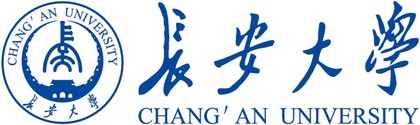
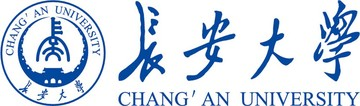
通过主页编辑器更新 2026/11/19 22:00:52

diff --git a/styles.css b/styles.css
@@ -20,7 +20,8 @@ p{margin:0 0 .5em}h1,h2,h3,h4{margin:1em 0 .5em;line-height:1.2;font-weight:700}
 .page-content{min-width:0}.introduction p{margin-bottom:.5em}.section-title{font-size:1.4em;margin:1em 0 .5em;padding-bottom:.5em;border-bottom:1px solid var(--line)}
 section[id]{scroll-margin-top:0}.education-row{display:grid;grid-template-columns:150px minmax(0,1fr);align-items:center;gap:16px;margin:0 0 12px;min-height:62px}
 .university-logo{display:block;width:140px;max-width:100%}.university-logo>img{display:block;width:100%;height:auto;max-height:56px;object-fit:contain}
-.university-logo>img.brand-stacked{width:96px;max-width:100%;height:auto;max-height:80px;object-fit:contain;object-position:left center;margin-inline:0}.research-entry{margin:1em 0 1.3em}.research-entry h3{font-size:1em;margin:.4em 0}.research-period{color:#7a8288;font-style:italic;margin-bottom:.4em}.research-period:empty{display:none}.research-entry ul{margin:.5em 0;padding-left:var(--list-indent)}
+/* Education logos are cropped to their visible content and share one width, each at its own aspect ratio. */
+#education .university-logo{width:120px}#education .university-logo>img{max-height:none}.research-entry{margin:1em 0 1.3em}.research-entry h3{font-size:1em;margin:.4em 0}.research-period{color:#7a8288;font-style:italic;margin-bottom:.4em}.research-period:empty{display:none}.research-entry ul{margin:.5em 0;padding-left:var(--list-indent)}
 .service-list{margin:0 0 1em;padding-left:0}.service-list ul{margin:0;padding-left:var(--list-indent)}.news-list{line-height:1.5}.publication-note{margin-bottom:.5em}.paper-box{display:flex;align-items:center;justify-content:flex-start;flex-wrap:wrap;border-bottom:1px solid #efefef;padding:2em 0}
 .paper-image{position:relative;display:flex;justify-content:flex-start;width:30%;min-width:180px;max-width:280px}.paper-image>div{position:relative;width:100%}.paper-image img{display:block;width:100%;height:auto;max-width:280px;box-shadow:2px 2px 4px #aaa;object-fit:cover}
 .badge{position:absolute;top:.5em;left:-.5em;background:#00369f;color:#fff;font-size:.8em;padding:0 1rem;max-width:calc(100% + 1em)}
@@ -41,5 +42,5 @@ section[id]{scroll-margin-top:0}.education-row{display:grid;grid-template-column
 @media(min-width:1280px){.masthead-inner,.page-layout{max-width:1280px}}
 @media(max-width:924px){.page-layout{display:block}.sidebar{position:static;display:block;margin-bottom:1em}.profile-top{display:flex;align-items:flex-start}.author-avatar{width:64px;height:64px;min-width:64px;padding:0;border:0;margin-right:10px}.author-content{min-width:120px;line-height:1}.author-name{font-size:1.2em;margin:0 0 8px}.author-bio{margin:0 0 10px}.author-links{display:flex;flex-wrap:wrap;gap:2px 15px;margin:10px 0 15px}.author-links .author-position{flex-basis:100%;margin:0}.author-links li:not(.author-position){font-size:13px;margin-bottom:0}.masthead-inner{max-width:925px}.site-navigation>a{margin:0 .75rem}.paper-image{min-width:0}}
 @media(max-width:767px){.paper-box{flex-direction:column;align-items:stretch}.paper-image{width:100%;max-width:100%;order:2;justify-content:center;margin-top:1em}.paper-image>div{max-width:280px}.paper-text{width:100%;max-width:100%;padding-left:0;order:1}.paper-text ul{padding-left:0}.education-row{grid-template-columns:130px minmax(0,1fr);gap:14px}.university-logo{width:120px}.site-navigation>a{font-size:14px;margin:0 .6rem}.home-symbol{font-size:15px}}
-@media(max-width:580px){.masthead-inner{padding:6px 10px;align-items:flex-start}.site-navigation{overflow-x:auto;scrollbar-width:none}.site-navigation::-webkit-scrollbar{display:none}.site-navigation>a{font-size:13px;margin:0 10px;padding:7px 0}.page-layout{padding:0 15px}.section-title{font-size:1.4em}.education-row{grid-template-columns:110px minmax(0,1fr);gap:12px;font-size:13px;margin-bottom:16px}.university-logo{width:110px}.author-links{gap:2px 10px}.paper-text ul{padding-left:0}.paper-box{padding:1.5em 0}.page-footer{font-size:11px}}
+@media(max-width:580px){.masthead-inner{padding:6px 10px;align-items:flex-start}.site-navigation{overflow-x:auto;scrollbar-width:none}.site-navigation::-webkit-scrollbar{display:none}.site-navigation>a{font-size:13px;margin:0 10px;padding:7px 0}.page-layout{padding:0 15px}.section-title{font-size:1.4em}.education-row{grid-template-columns:110px minmax(0,1fr);gap:12px;font-size:13px;margin-bottom:16px}.university-logo,#education .university-logo{width:110px}.author-links{gap:2px 10px}.paper-text ul{padding-left:0}.paper-box{padding:1.5em 0}.page-footer{font-size:11px}}
 @media(prefers-reduced-motion:reduce){html{scroll-behavior:auto}.site-navigation>a::after{transition:none}}

diff --git a/index.html b/index.html
@@ -13,7 +13,7 @@
   <meta property="og:image" content="https://user-dzt.github.io/avatar.jpg">
   <meta name="twitter:card" content="summary">
   <link rel="icon" href="favicon.svg" type="image/svg+xml">
-  <link rel="stylesheet" href="styles.css?v=logos-20261119-r1">
+  <link rel="stylesheet" href="styles.css?v=logos-20261119-r2">
   <script src="app.js?v=english-20261030-r1" defer=""></script>
   <script type="application/ld+json">
   {"@context":"https://schema.org","@type":"Person","name":"Zhentao Dong","alternateName":"董镇滔","url":"https://user-dzt.github.io/","image":"https://user-dzt.github.io/avatar.jpg","jobTitle":"Ph.D. student","email":"mailto:ztdong@bjtu.edu.cn","affiliation":[{"@type":"CollegeOrUniversity","name":"Beijing Jiaotong University","url":"https://www.bjtu.edu.cn/"},{"@type":"CollegeOrUniversity","name":"University of Birmingham","url":"https://www.birmingham.ac.uk/"}],"alumniOf":{"@type":"CollegeOrUniversity","name":"Chang'an University","url":"https://www.chd.edu.cn/"},"knowsAbout":["Brain–computer interfaces","Human–vehicle interaction","Intelligent transportation","Automated vehicles","EEG"],"sameAs":["https://orcid.org/0009-0004-5957-943X","https://github.com/user-dzt"]}
@@ -61,15 +61,15 @@
       <section id="education">
         <h2 class="section-title" data-t="educationTitle">📖 Education</h2>
         <div class="education-row">
-          <a class="university-logo" href="https://www.birmingham.ac.uk/" target="_blank" rel="noopener noreferrer" aria-label="University of Birmingham"><img class="brand-stacked" src="birmingham-logo.png" width="96" height="72" alt="University of Birmingham"></a>
+          <a class="university-logo" href="https://www.birmingham.ac.uk/" target="_blank" rel="noopener noreferrer" aria-label="University of Birmingham"><img src="birmingham-logo.png" width="120" height="90" alt="University of Birmingham"></a>
           <div data-t="educationBirmingham"><strong>University of Birmingham, United Kingdom</strong><br>Visiting Ph.D. Student · One-year joint-training program<br>Supported by the China Scholarship Council (CSC)<br>Oct. 2026 – Oct. 2027</div>
         </div>
         <div class="education-row">
-          <a class="university-logo" href="https://www.bjtu.edu.cn/" target="_blank" rel="noopener noreferrer" aria-label="Beijing Jiaotong University"><img class="brand-stacked" src="bjtu-logo.png" width="92" height="80" alt="Beijing Jiaotong University"></a>
+          <a class="university-logo" href="https://www.bjtu.edu.cn/" target="_blank" rel="noopener noreferrer" aria-label="Beijing Jiaotong University"><img src="bjtu-logo.png" width="120" height="102" alt="Beijing Jiaotong University"></a>
           <div data-t="educationBjtu"><strong>Beijing Jiaotong University, China</strong><br><strong>Integrated Master–Ph.D. Program</strong><br>Ph.D. stage: Control Science and Engineering, Aug. 2024 – Present<br>Master's stage: Transportation Planning and Management, Aug. 2023 – Aug. 2024</div>
         </div>
         <div class="education-row">
-          <a class="university-logo" href="https://www.chd.edu.cn/" target="_blank" rel="noopener noreferrer"><img src="changan.jpg" width="140" height="42" alt="Chang'an University"></a>
+          <a class="university-logo" href="https://www.chd.edu.cn/" target="_blank" rel="noopener noreferrer"><img src="changan.jpg" width="120" height="35" alt="Chang'an University"></a>
           <div data-t="educationChangan"><strong>Chang'an University, China</strong><br>Bachelor of Engineering in Transportation Engineering<br>Aug. 2019 – Jun. 2023</div>
         </div>
       </section>
